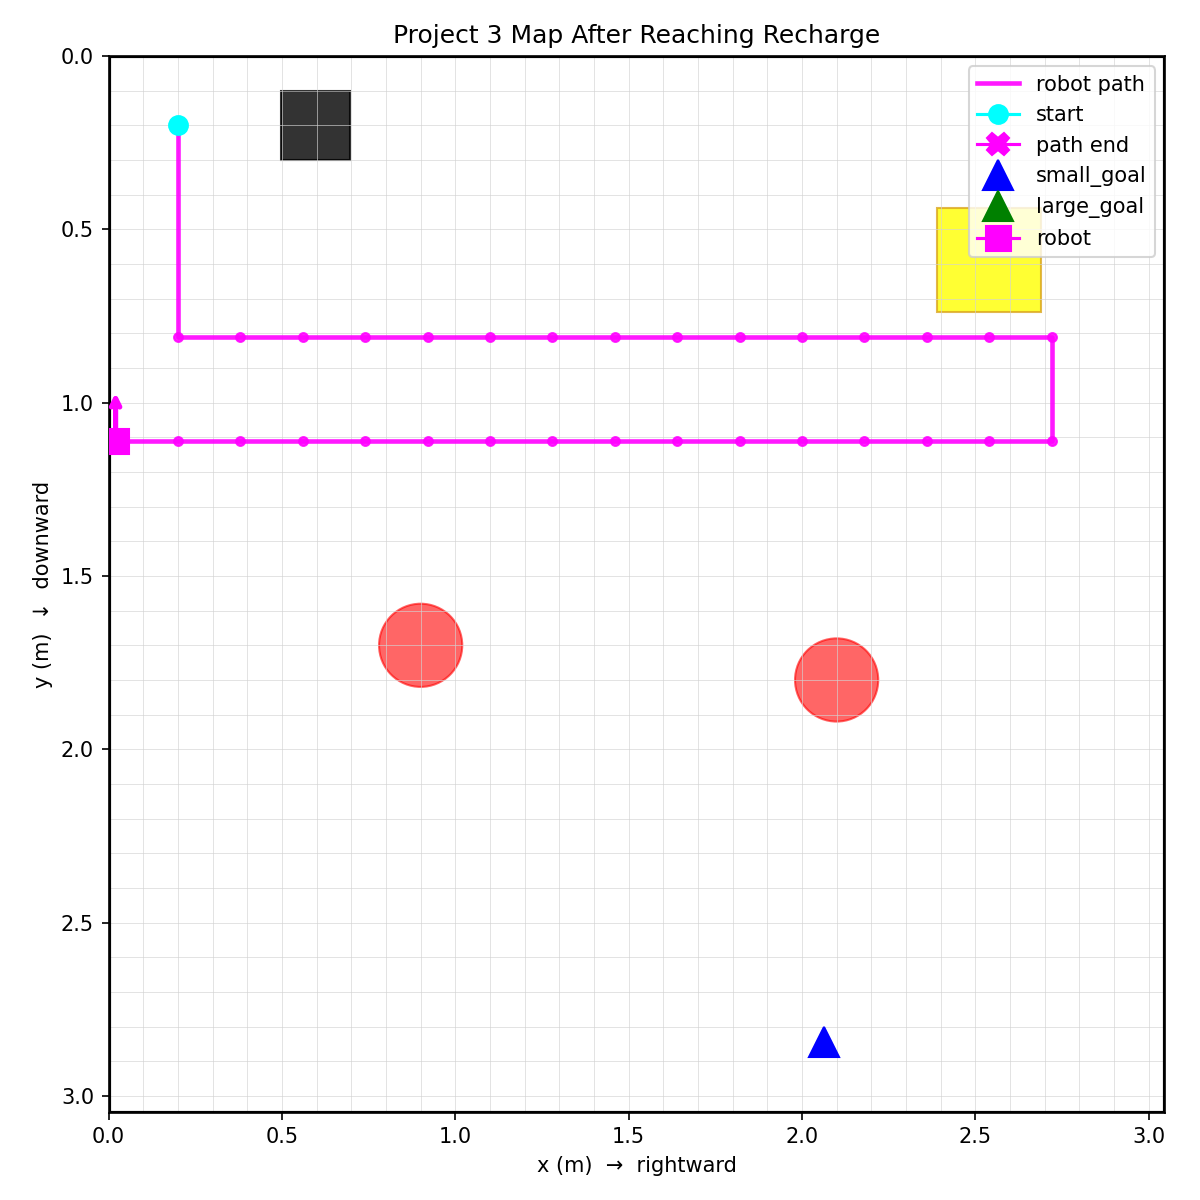
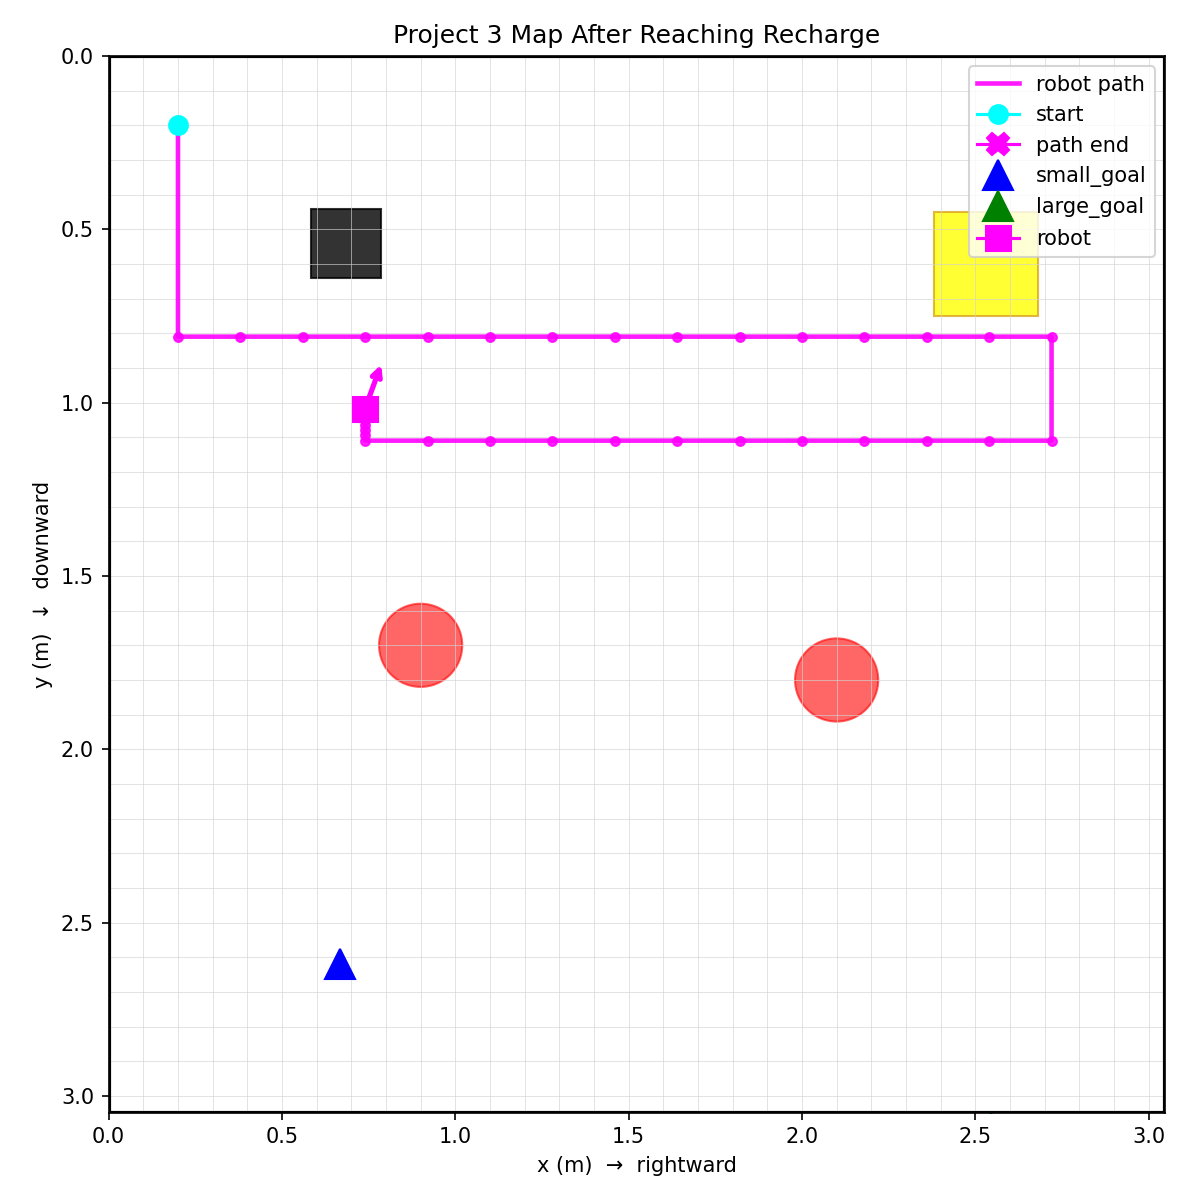
yerr

diff --git a/Project 3/project_3_updated.py b/Project 3/project_3_updated.py
@@ -2011,7 +2011,7 @@ def visualize_map(
     *,
     filename: str = "arena_map.png",
     title: str = "Project 3 Map (top-left origin, +y down)",
-    show_window: bool = True,
+    show_window: bool = False,
 ) -> None:
     """Bird's-eye debug plot.  World +y is rendered downward to match the
     workspace convention (+x right, +y down, origin top-left).
@@ -2107,8 +2107,8 @@ def parse_args() -> argparse.Namespace:
     parser.add_argument("--conn-type", default="sta", choices=["sta", "ap"])
     parser.add_argument("--resolution", default="360p", choices=["360p", "720p"])
     parser.add_argument("--map-only", action="store_true")
-    parser.add_argument("--show-map", action="store_true", default=True,
-                        help="Show and save the generated map (default: True)")
+    parser.add_argument("--show-map", action="store_true", default=False,
+                        help="Show the generated map windows in addition to saving the PNGs")
     parser.add_argument("--max-deliveries", type=int, default=3)
     return parser.parse_args()
 
@@ -2150,14 +2150,13 @@ def main() -> None:
             ep_camera, ep_chassis, yolo_model, tag_detector, pose, world_map,
         )
         print(world_map.summary())
-        if args.show_map or args.map_only:
-            visualize_map(
-                world_map,
-                pose,
-                filename="arena_map_mapping_complete.png",
-                title="Project 3 Map After Mapping",
-                show_window=bool(args.show_map),
-            )
+        visualize_map(
+            world_map,
+            pose,
+            filename="arena_map_mapping_complete.png",
+            title="Project 3 Map After Mapping",
+            show_window=False,
+        )
         print("[Mission] Mapping complete. Navigating to recharge station and ending there.")
         recharge_robot(
             ep_camera, ep_chassis, yolo_model, tag_detector,
@@ -2165,14 +2164,13 @@ def main() -> None:
             leave_after_recharge=False,
         )
 
-        if args.show_map or args.map_only:
-            visualize_map(
-                world_map,
-                pose,
-                filename="arena_map_after_recharge.png",
-                title="Project 3 Map After Reaching Recharge",
-                show_window=bool(args.show_map),
-            )
+        visualize_map(
+            world_map,
+            pose,
+            filename="arena_map_after_recharge.png",
+            title="Project 3 Map After Reaching Recharge",
+            show_window=False,
+        )
 
     finally:
         try:
